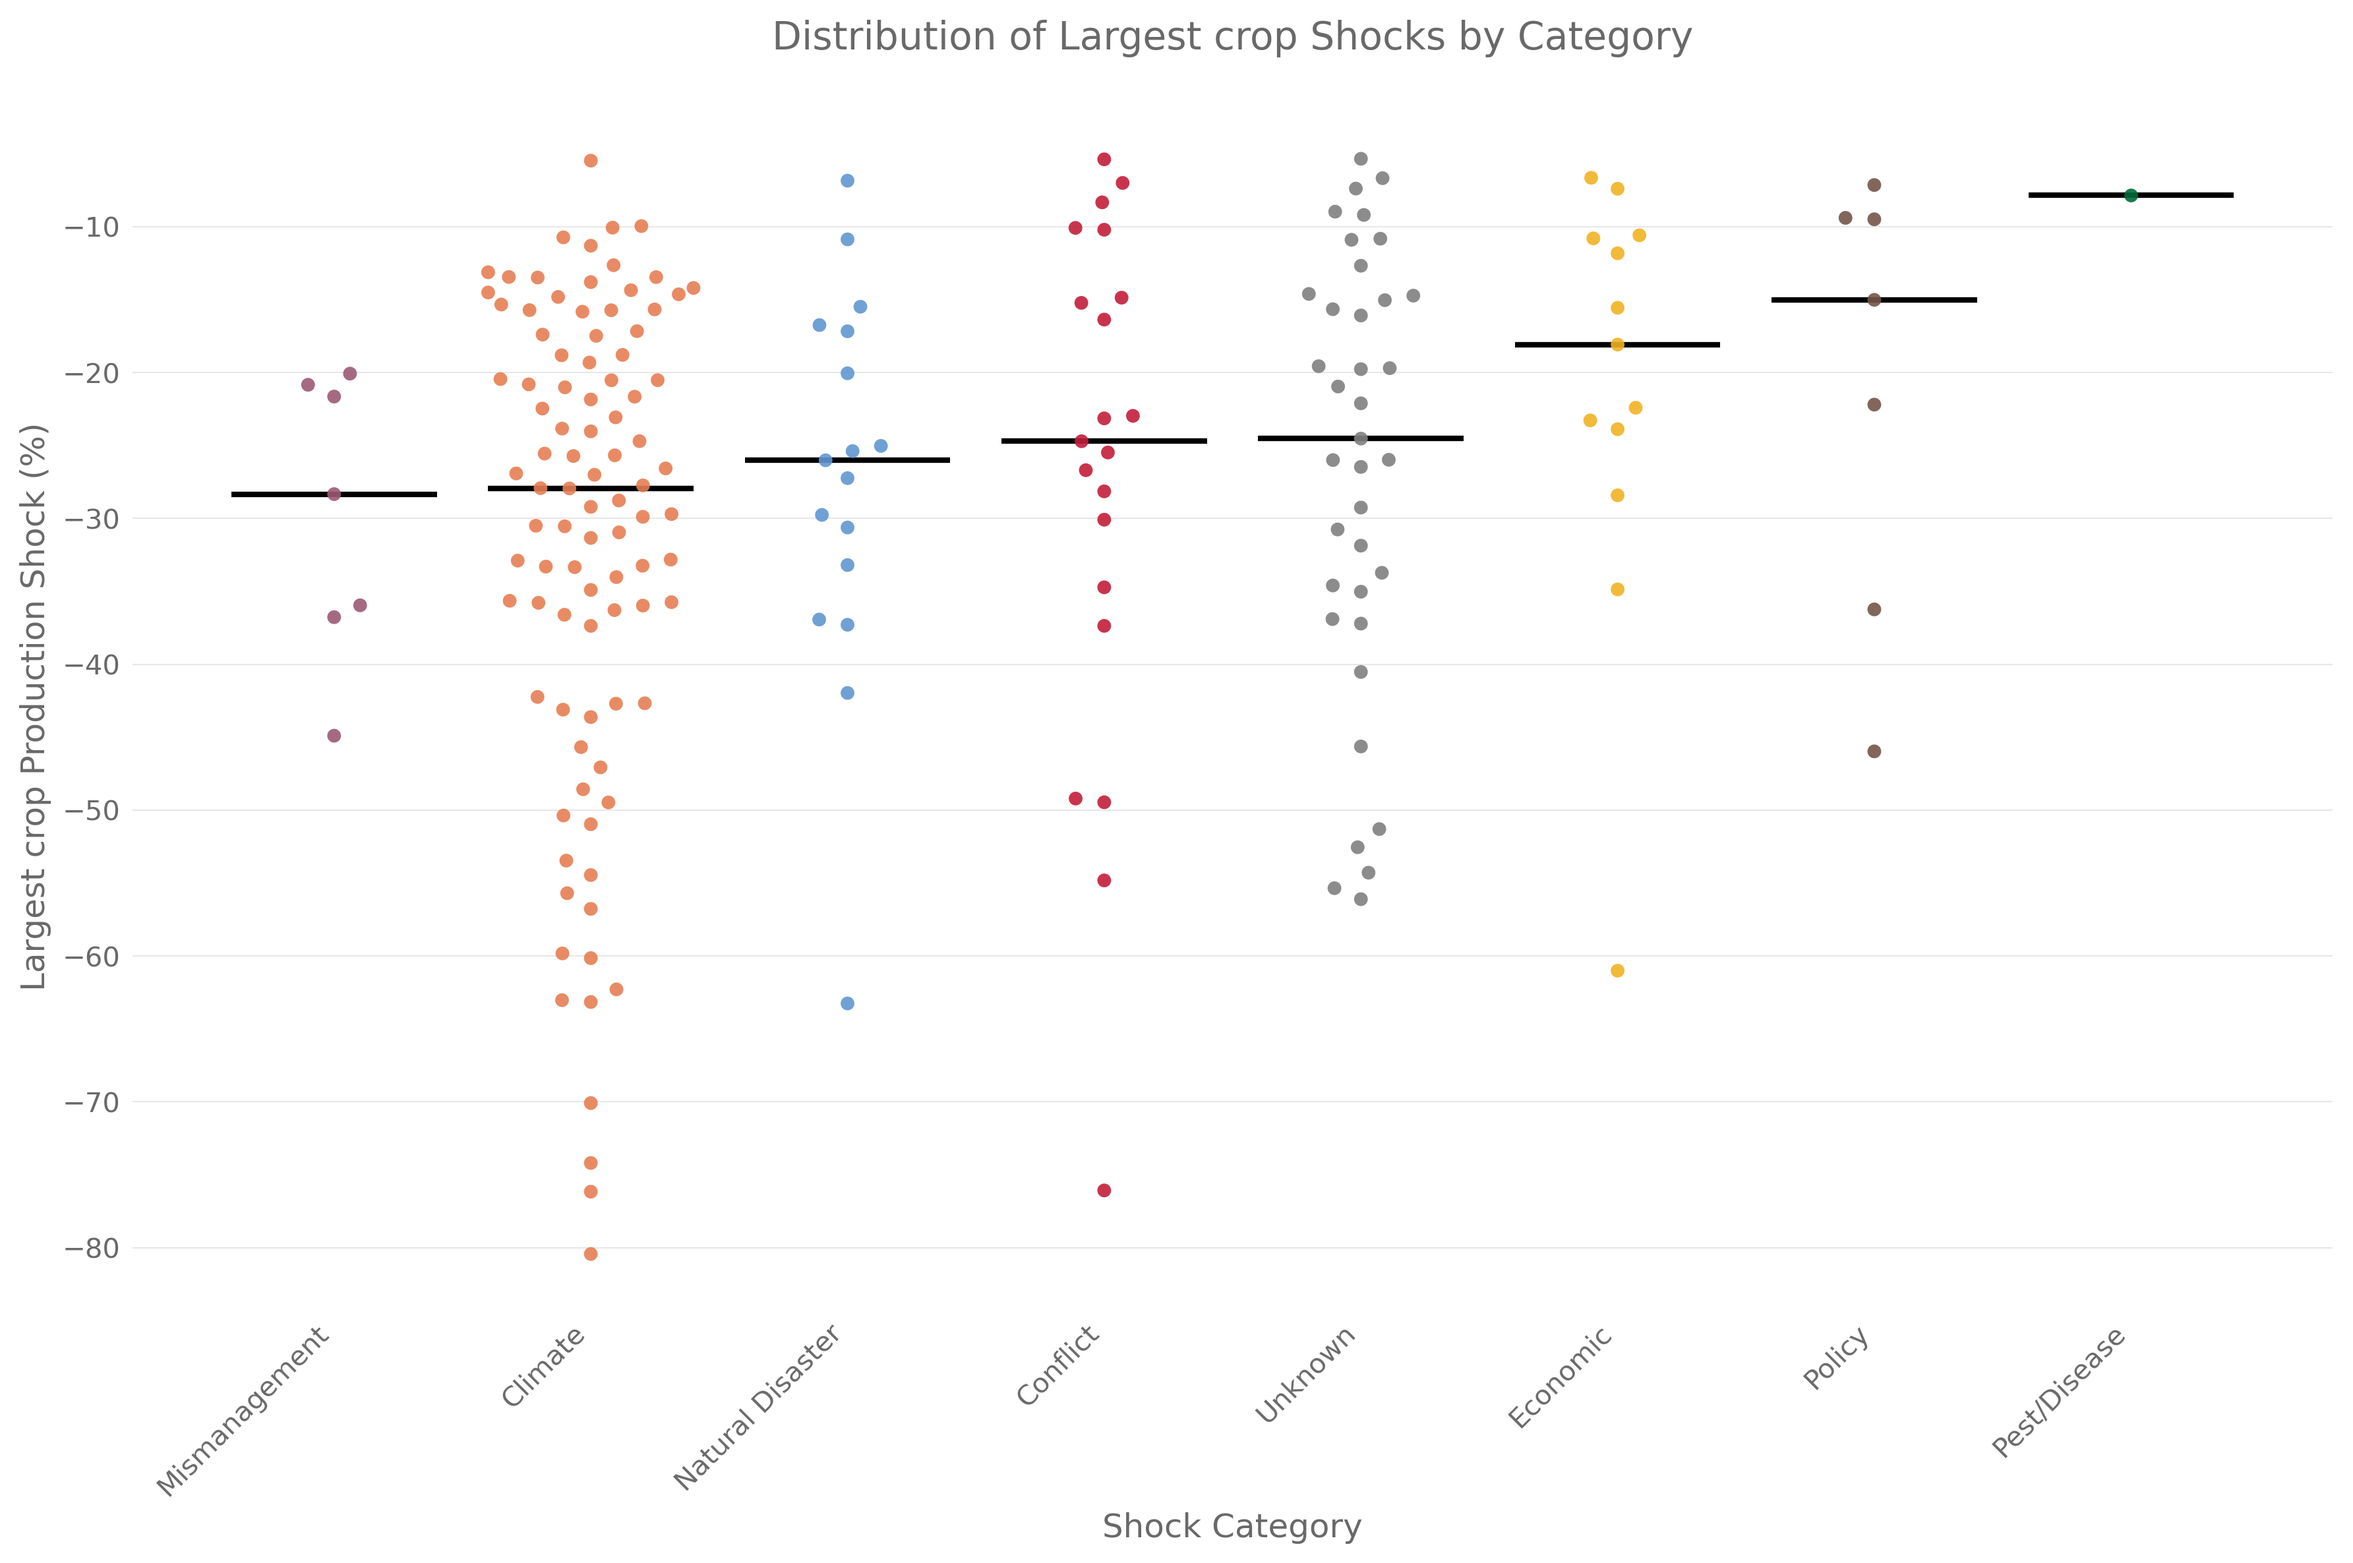
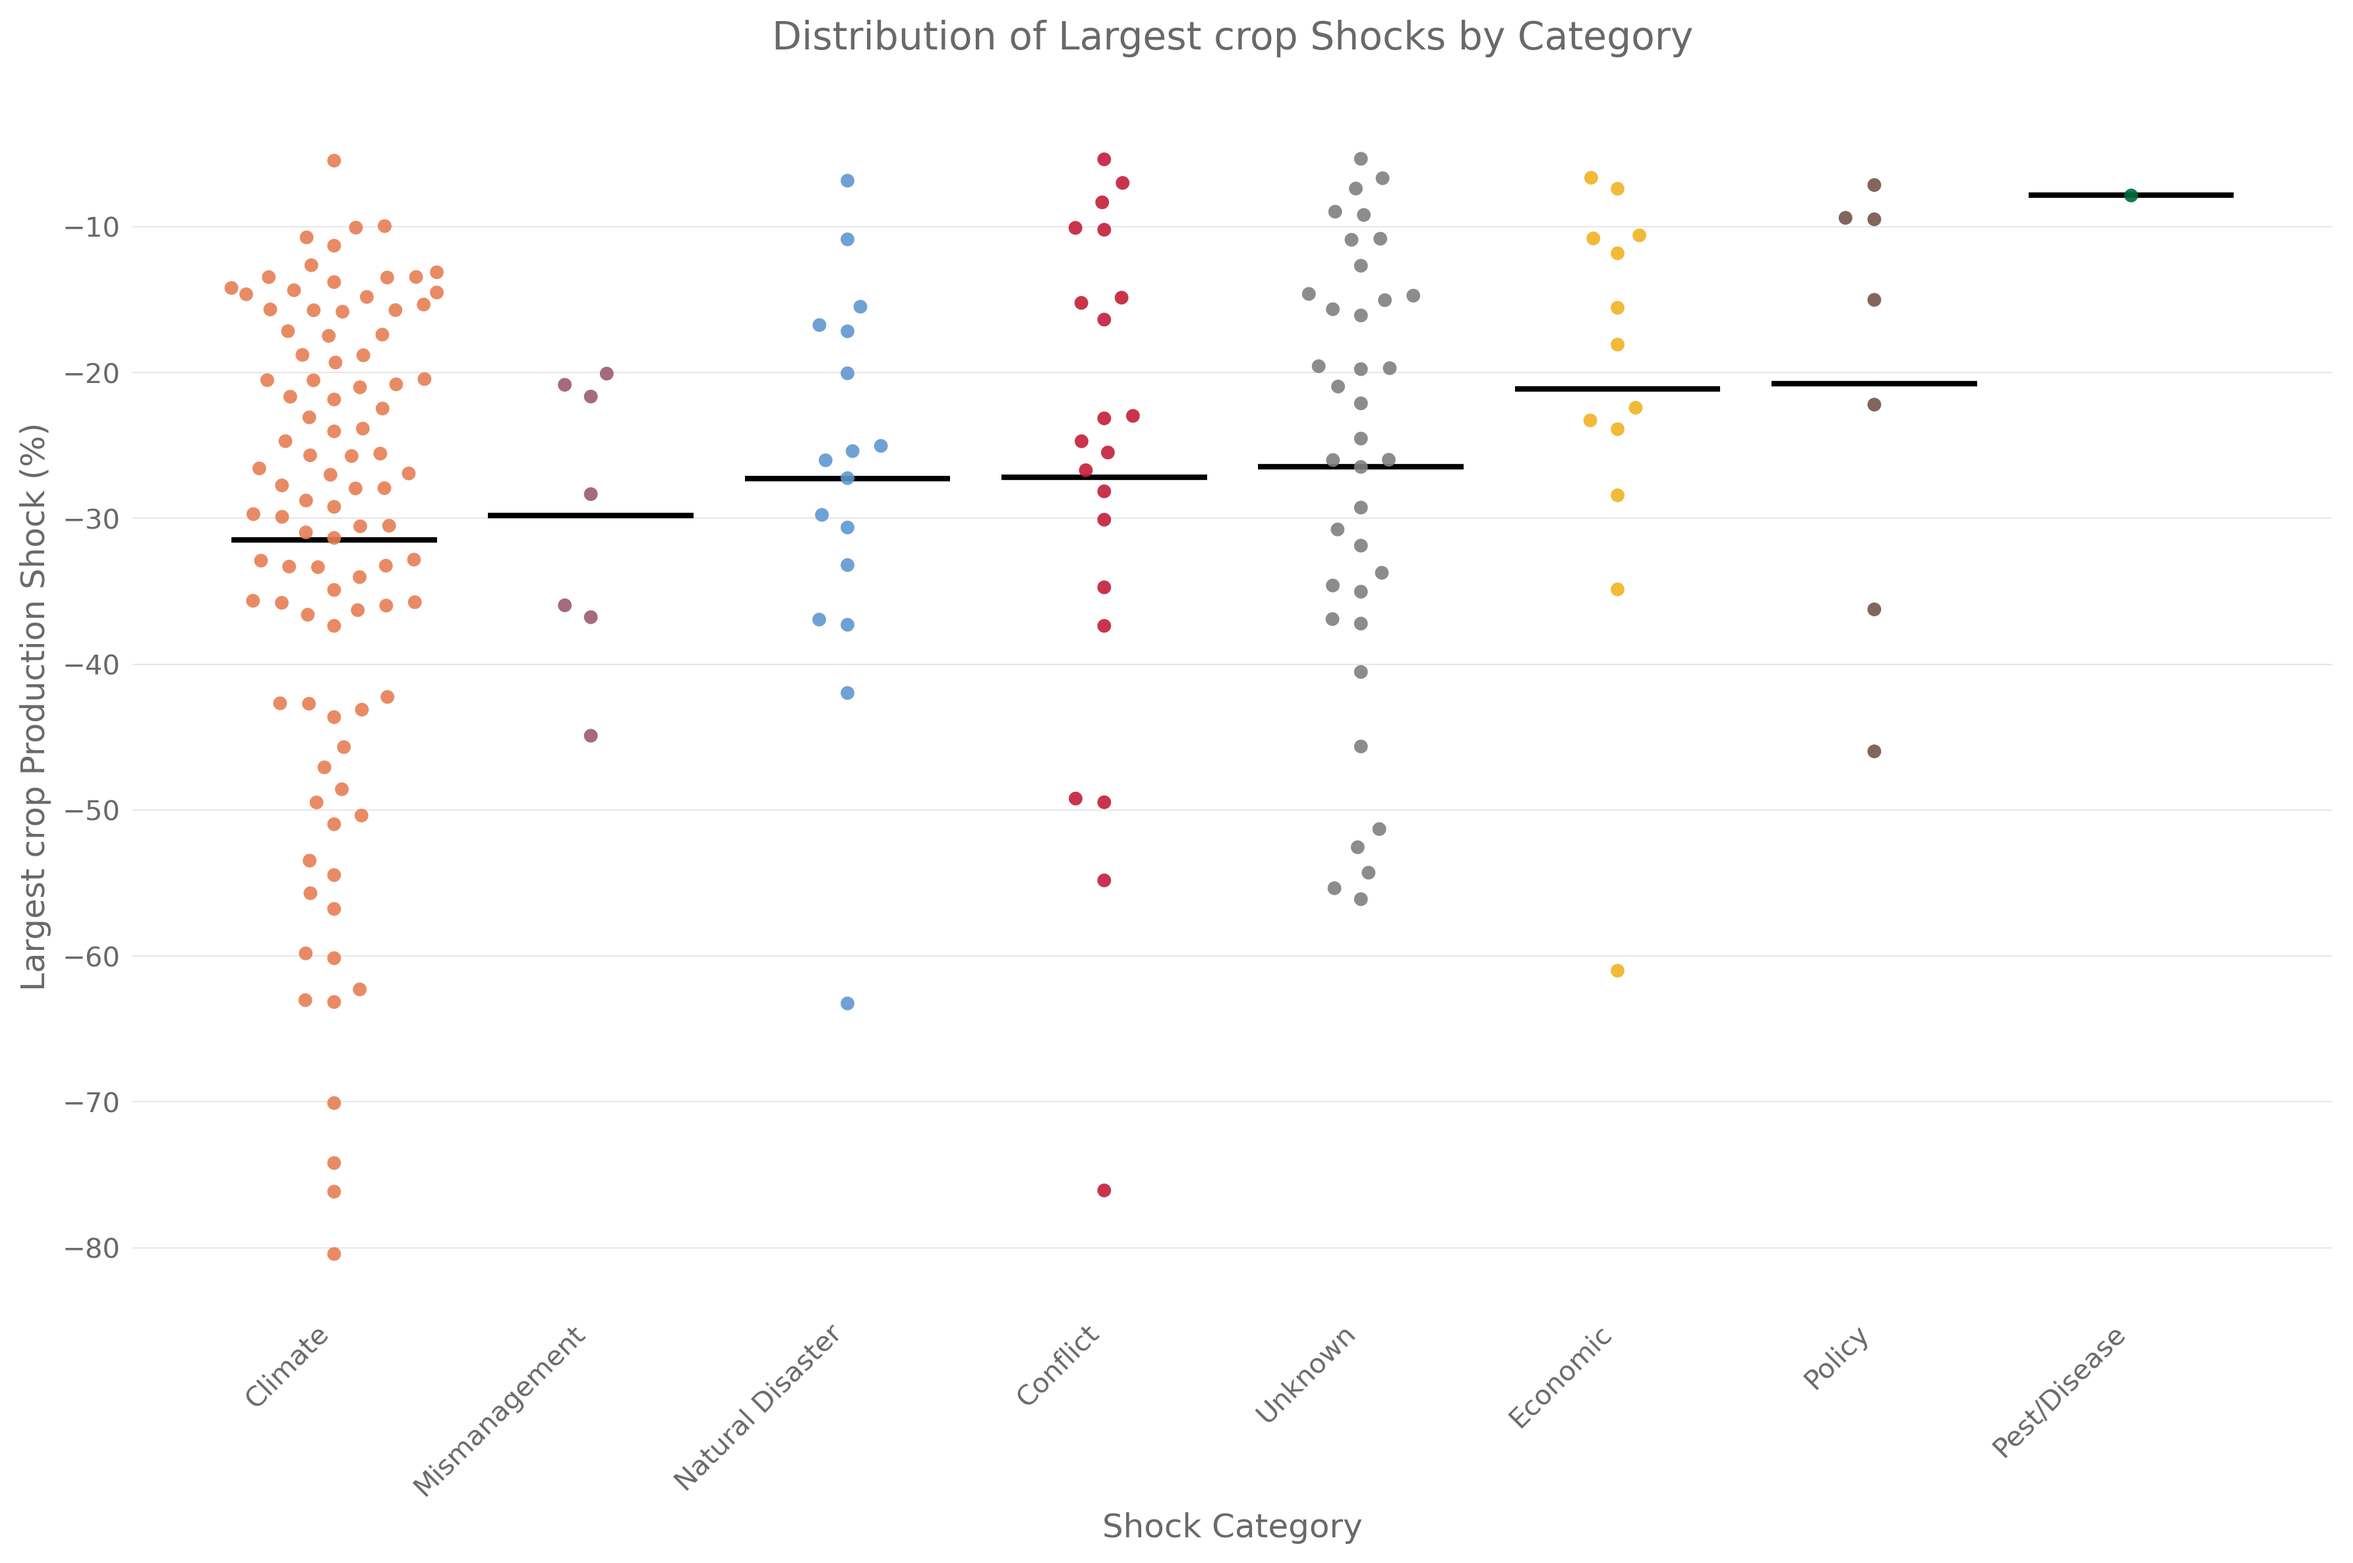
Updated plots

diff --git a/src/plot_compare_shock_reasons.py b/src/plot_compare_shock_reasons.py
@@ -142,10 +142,10 @@ def plot_swarm_by_category(data):
     # Get color palette
     category_colors = get_category_colors()
 
-    # Order categories by median shock size (most severe first)
+    # Order categories by mean shock size (most severe first)
     category_order = (
         data.groupby("Category (main)")["largest_food_shock"]
-        .median()
+        .mean()
         .sort_values()
         .index.tolist()
     )
@@ -165,14 +165,14 @@ def plot_swarm_by_category(data):
         ax=ax,
     )
 
-    # Add median lines
+    # Add mean lines
     for i, category in enumerate(category_order):
         cat_data = data[data["Category (main)"] == category]["largest_food_shock"]
-        median_val = cat_data.median()
+        mean_val = cat_data.mean()
 
         # Draw median line
         ax.hlines(
-            median_val,
+            mean_val,
             i - 0.4,
             i + 0.4,
             colors="black",
